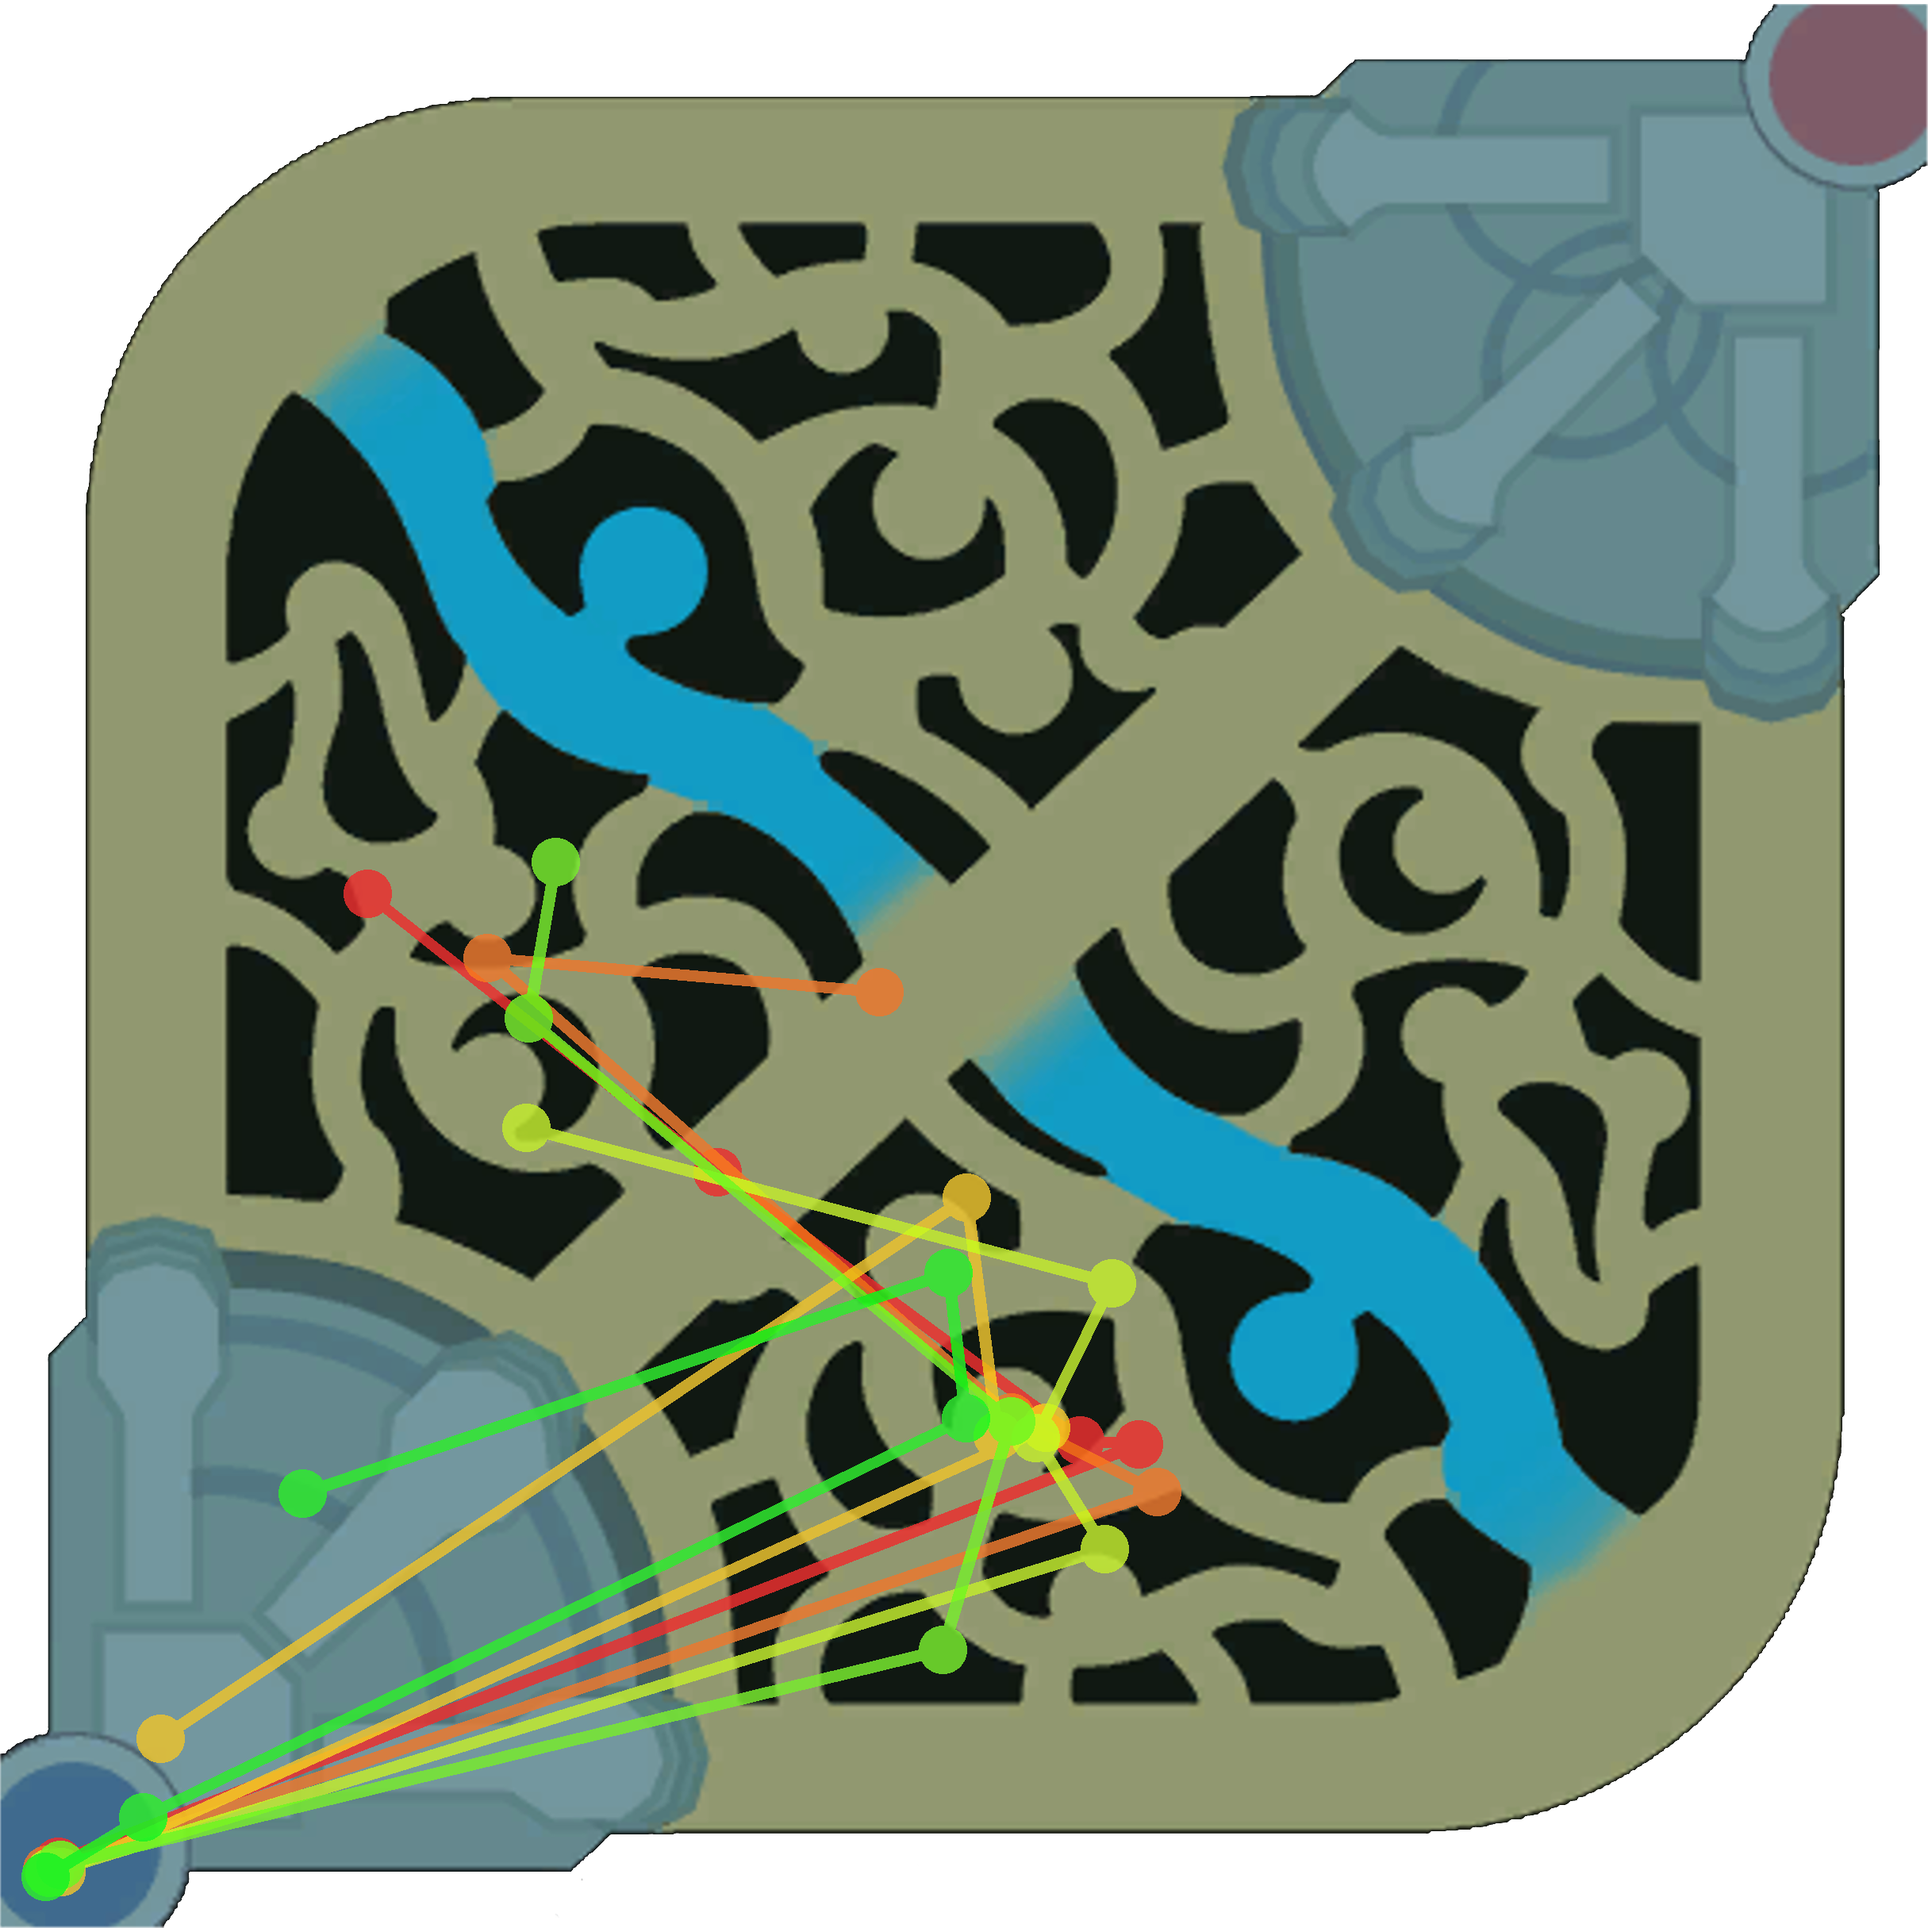
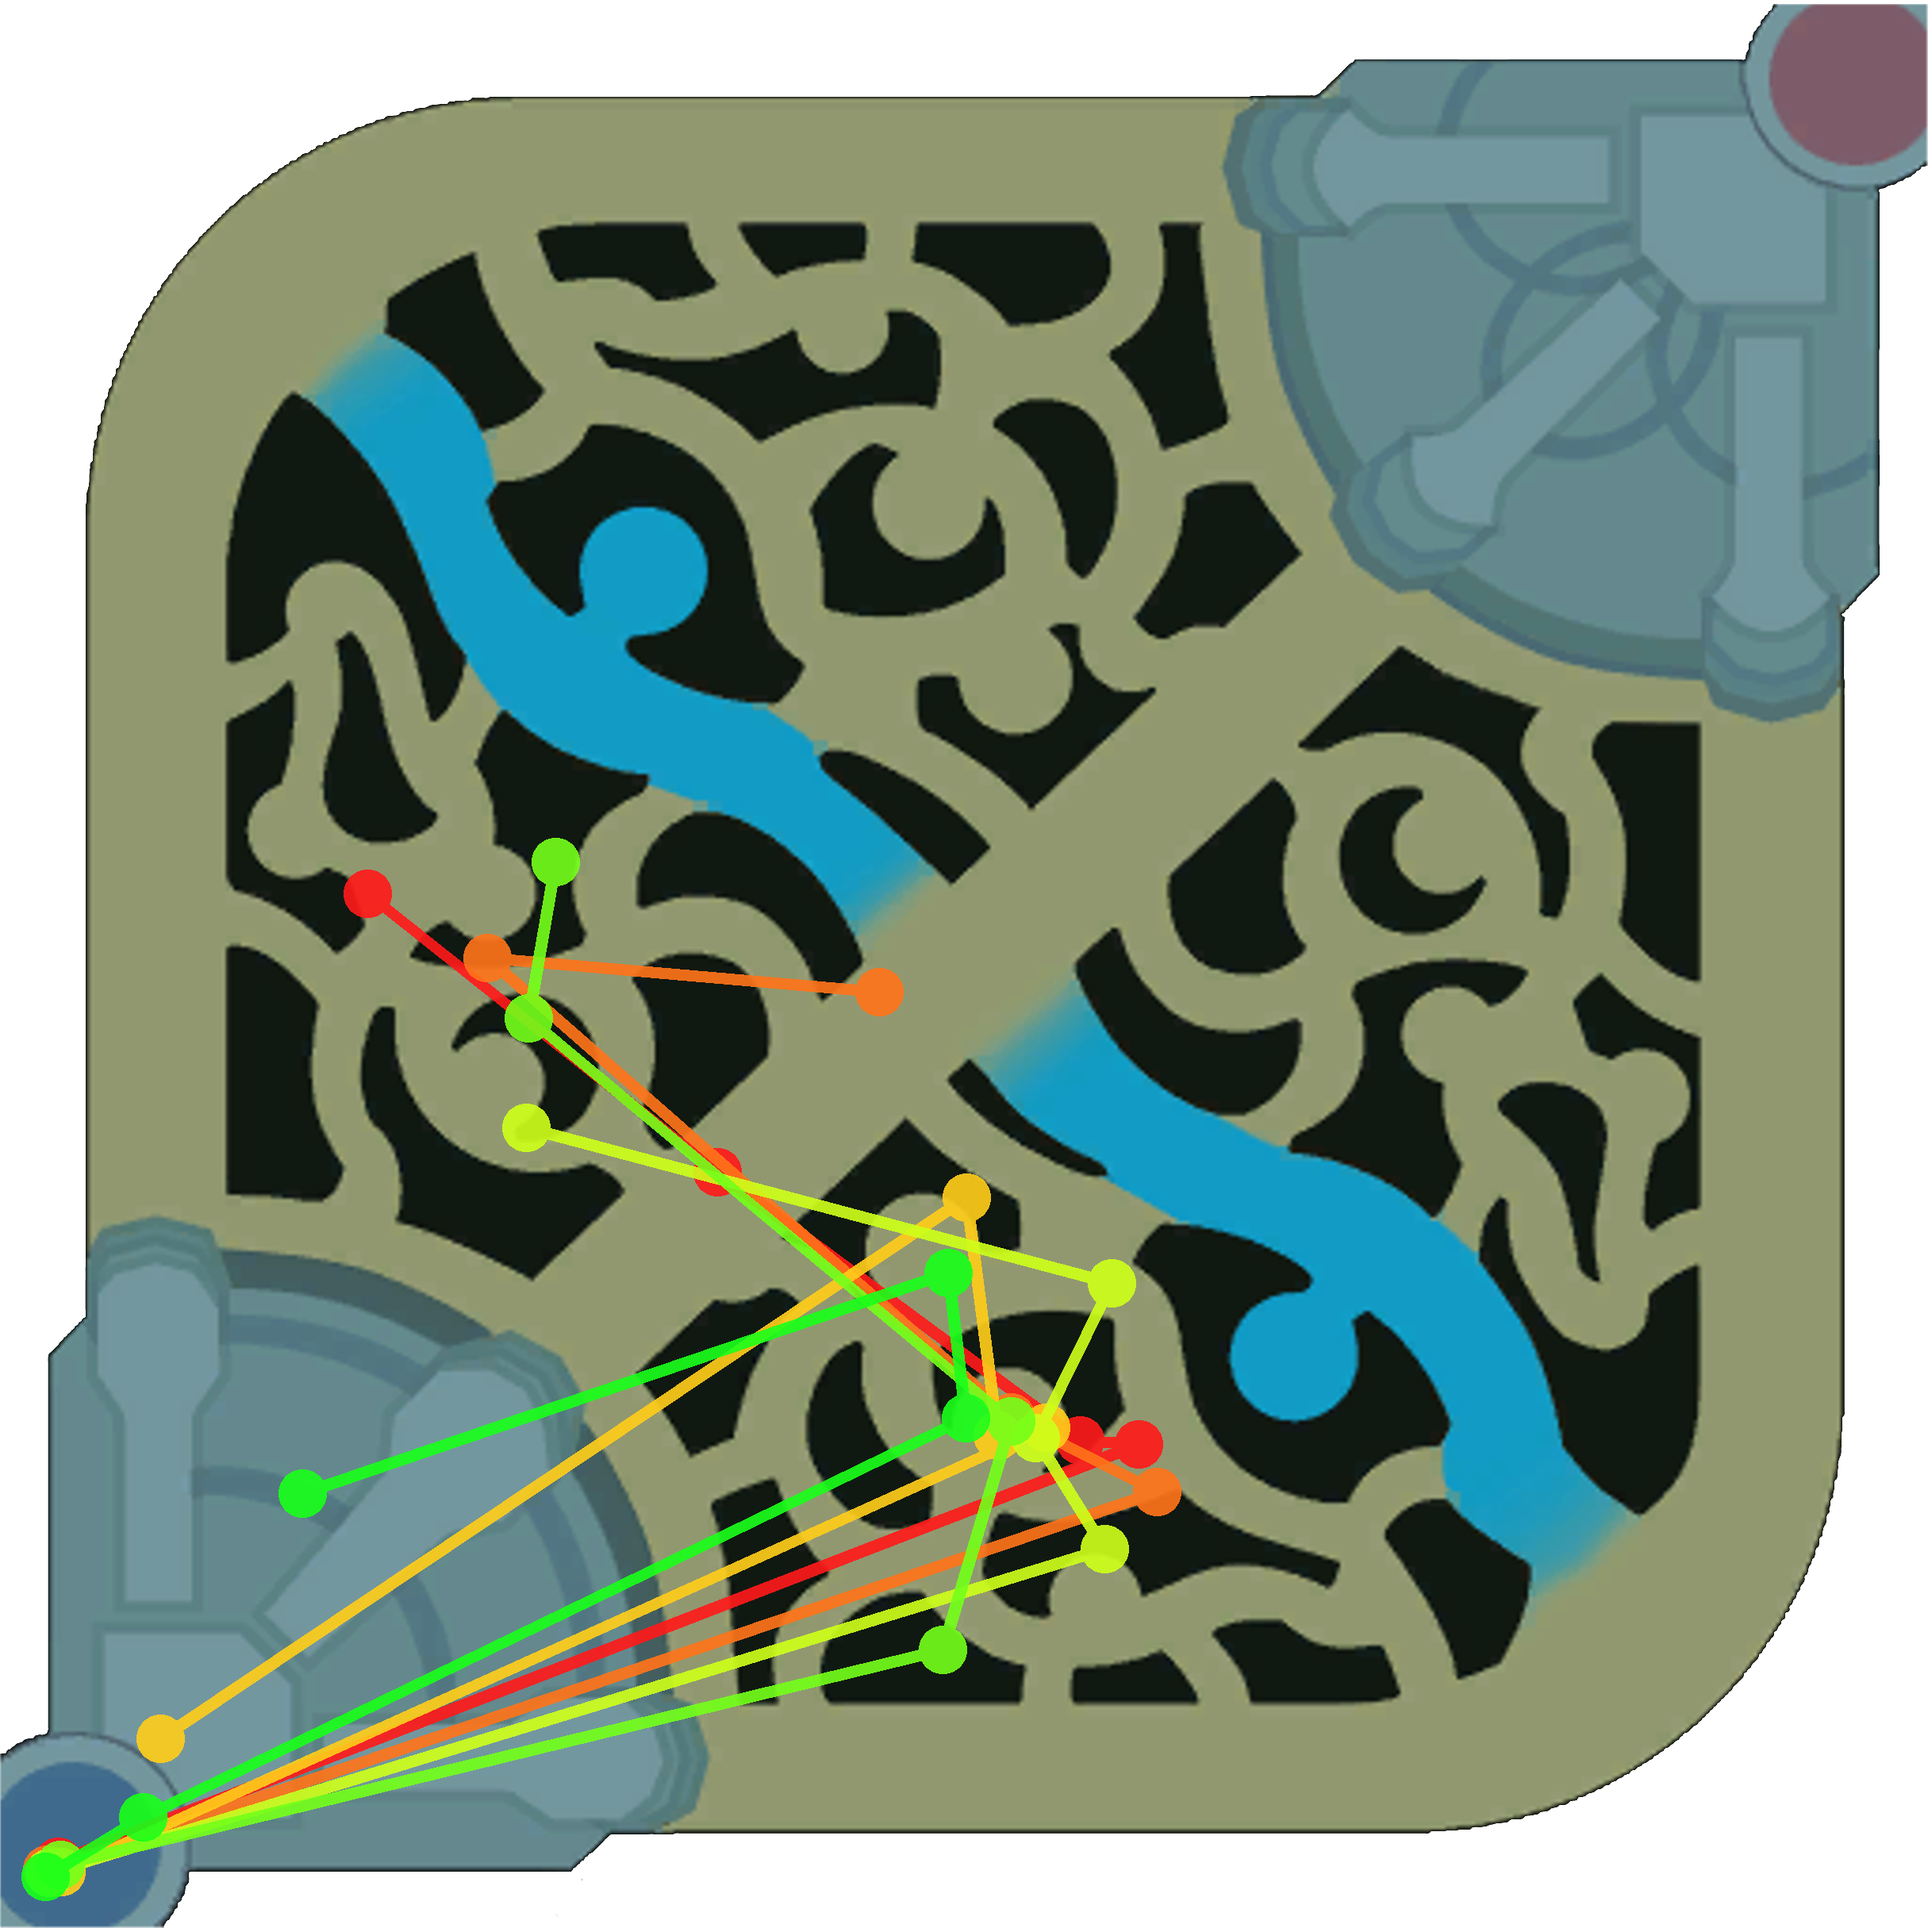
cleaned up data vis module interface, documented stuff

Changed region(s): [[0.0617, 0.4321, 0.6173, 0.9568], [0.1235, 0.7407, 0.2778, 0.8333]]

diff --git a/JunglerDataVisualization.py b/JunglerDataVisualization.py
@@ -1,41 +1,93 @@
+'''
+JunglerDataVisualization.py
+
+Uses cluster data (centroids+winrates) and datapoint-cluster-weights matrix to 
+visualize effectiveness of jungler paths for various champions.
+
+Run `python JunglerDataVisualization.py 0` to generate bottom3/top3 cluster maps for each champion
+Run `python JunglerDataVisualization.py 1` to generate top6 avg weighted cluster maps for each champion
+'''
 from PIL import Image, ImageDraw
 import json
 import codecs
 import numpy
 import sys
 
+# File suffixes and corresponding champion names
+fileIDs = [
+	"19_6_5",
+	"20_6_5_254",
+	"20_6_5_102",
+	"20_6_5_120",
+	"20_6_5_121"
+	]
+champs = [
+	"LeeSin",
+	"Vi",
+	"Shyvana",
+	"Hecarim",
+	"KhaZix"
+	]
+
+# Color values to use to draw data
+colors = [[
+	(255, 0, 0),
+	(255, 100, 0),
+	(255, 200, 0),
+	(200, 255, 0),
+	(100, 255, 0),
+	(0, 255, 0),		
+	],[
+	(255, 255, 255),	
+	(255, 205, 255),
+	(255, 155, 255),
+	(255, 105, 255),
+	(255, 55, 255),
+	(255, 5, 255),	
+	]]
+
+# xy scale of player positions
 DATA_SCALE = (14820, 14881)
+# xy scale of output image
 IMG_SCALE = (2430, 2430)
+# radius of draw points (px)
 PT_RADIUS = 30
+# width of draw lines (px)
 LINE_WIDTH = 15
+# transparency level (0-255)
+DRAW_ALPHA = 230
+# path to map file to overlay data on
 MAP_FILE = "img/util/mapLg.png"
 
+# Default draw method
 # 0 = top3/bottom3 winrate clusters; 1 = top6 weighted clusters
 DRAW_METHOD = 0
 
+
 def scale(val, src, dst):
 	return ((val[0]*dst[0])/src[0], (val[1]*dst[1])/src[1])
+
 def winRateKey(cluster):
 	return cluster[1]
 def weightKey(cluster):
 	return cluster[2]
-
 keyFuncs = [winRateKey, weightKey]
 
 # builds list of clusters; each is a 3-tuple with list of 5 image-scaled coordinates, winrate for cluster, and avg weight of cluster
 def buildClusters(fileID):
 	clusterFile = codecs.open('output/cluster_200_' + fileID, encoding='utf-8')
 	weightFile = codecs.open('output/weights_200_' + fileID, encoding='utf-8')
-
 	rawClusters = json.load(clusterFile)
 	dataWeights = json.load(weightFile);
 
 	# calculate cumulative average weights of each cluster
 	clusterWeights = [0 for x in range(len(rawClusters))];
 	for dp in dataWeights:
+		# sum all weights
 		for i in range(len(clusterWeights)):
 			clusterWeights[i] += dp[i]
 	for i in range(len(clusterWeights)):
+		# divide all sums by num of clusters
 		clusterWeights[i] = clusterWeights[i]/len(clusterWeights)
 
 	# build result cluster list
@@ -55,76 +107,43 @@ def buildClusters(fileID):
 	# sort clusters by appropriate method
 	clusters = sorted(clusters, key=keyFuncs[DRAW_METHOD])
 	
-	print(len(clusters))
+	#print(len(clusters))
 	return clusters
 
 def drawClusters(clusters, champ, colors):	
-	outImage = Image.new('RGBA', IMG_SCALE, (0, 0, 0, 0))
-	draw = ImageDraw.Draw(outImage)
+	# get base map as output image
+	outName = "img/" + champ + "_Method"+str(DRAW_METHOD)+".png"
+	outImage = Image.open(MAP_FILE)
 
-	redness = 0;
 	for i in range(len(clusters)):
 		clus = clusters[i]
-
+		
+		# draw this cluster's data line on a new bitmap image
 		tempImage = Image.new('RGBA', IMG_SCALE, (0, 0, 0, 0))
 		tempDraw = ImageDraw.Draw(tempImage)
-
-		color = colors[i] + (230,)
+		color = colors[i] + (DRAW_ALPHA,)
 		tempDraw.line(clus[0], color, LINE_WIDTH)
 		for pt in clus[0]:
 			tempDraw.ellipse([pt[0]-PT_RADIUS, pt[1]-PT_RADIUS, pt[0]+PT_RADIUS, pt[1]+PT_RADIUS], color, color)
 
+		# overlay this cluster's data image on output file
+		tempImage = tempImage.transpose(Image.FLIP_TOP_BOTTOM)
 		outImage.paste(tempImage,(0, 0),tempImage)
-		redness = redness + int((1/6)*255)
 	
-	outName = "img/" + champ + "_Method"+str(DRAW_METHOD)+".png"
-	outImage = outImage.transpose(Image.FLIP_TOP_BOTTOM)
-	mapImage = Image.open(MAP_FILE)
-	mapImage.paste(outImage, (0, 0), outImage)
-	mapImage.save(outName)
+	outImage.save(outName)
 
 
 if __name__ == "__main__":
-	fileIDs = [
-	"19_6_5",
-	"20_6_5_254",
-	"20_6_5_102",
-	"20_6_5_120",
-	"20_6_5_121"
-	]
-	champs = [
-	"LeeSin",
-	"Vi",
-	"Shyvana",
-	"Hecarim",
-	"KhaZix"
-	]
 
+	# override default draw method if one specified in args
 	if (len(sys.argv) > 1):
 		DRAW_METHOD = int(sys.argv[1])
 
 	for i in range(len(fileIDs)):
 		clusters = buildClusters(fileIDs[i])
-		colors = 0;
 		if DRAW_METHOD == 0:
 			clusters = clusters[:3] + clusters[len(clusters)-3:]
-			colors = [
-			(255, 0, 0),
-			(255, 100, 0),
-			(255, 200, 0),
-			(200, 255, 0),
-			(100, 255, 0),
-			(0, 255, 0),		
-			]
 		elif DRAW_METHOD == 1:
 			clusters = clusters[:6]
-			colors = [
-			(255, 255, 255),	
-			(255, 205, 255),
-			(255, 155, 255),
-			(255, 105, 255),
-			(255, 55, 255),
-			(255, 5, 255),	
-			]
-		drawClusters(clusters, champs[i], colors)
+		drawClusters(clusters, champs[i], colors[DRAW_METHOD])
 
